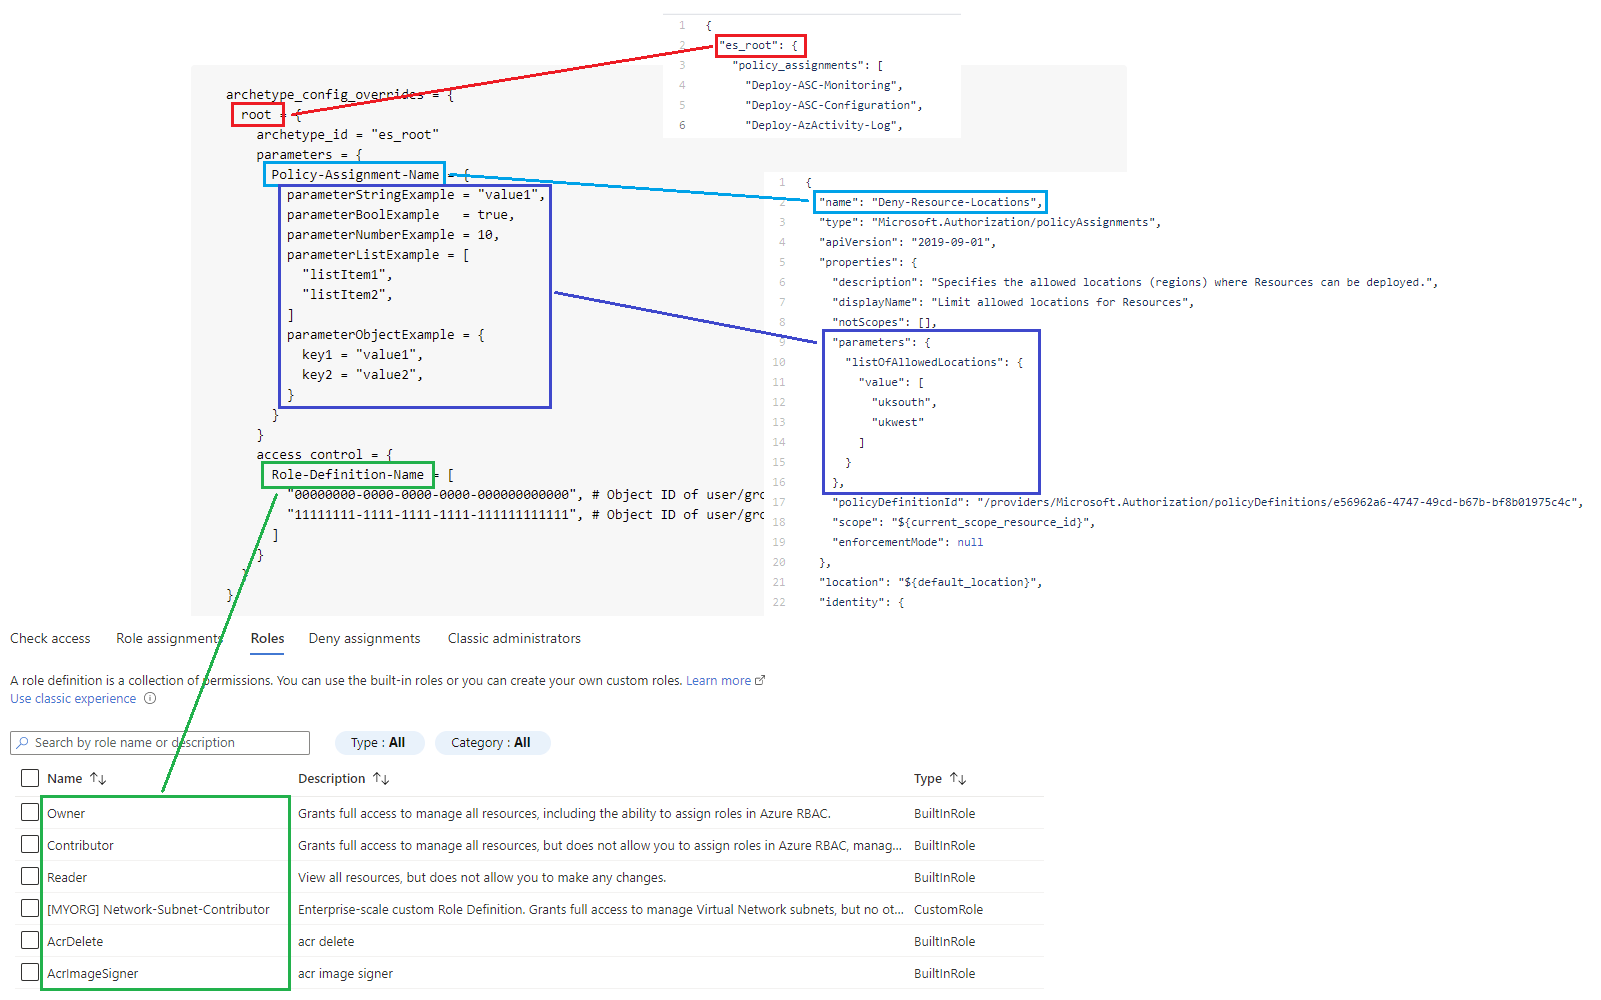
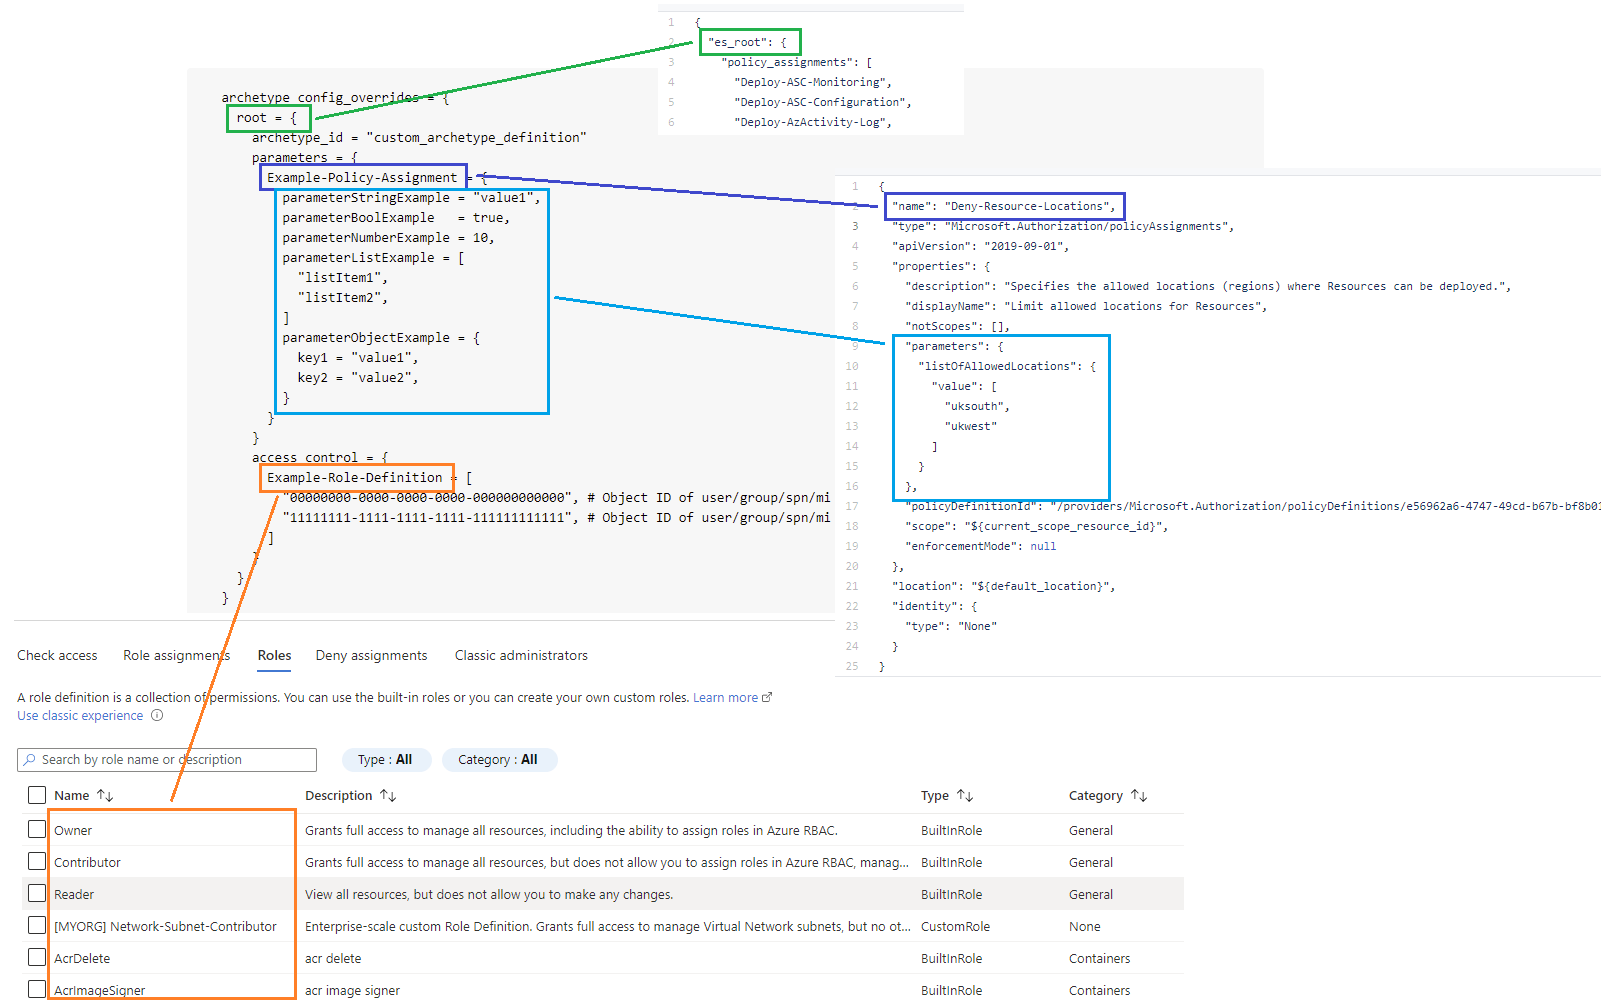
Update image and worded

diff --git a/docs/wiki/[Variables]-archetype_config_overrides.md b/docs/wiki/[Variables]-archetype_config_overrides.md
@@ -26,7 +26,7 @@ map(
 )
 ```
 
-> INFORMATION: The decision not to hard code the structure in the input variable `type` is by design, as it allows Terraform to handle the input as a dynamic type object.
+> INFORMATION: The decision not to hard code the structure in the input variable `type` is by design, as it allows Terraform to handle the input as a dynamic object type.
 This was necessary to allow the `parameters` value to be correctly interpreted.
 Without this, Terraform would throw an error if each parameter value wasn't a consistent type, as it would incorrectly identify the input as a `tuple` which must contain consistent type structure across all entries.
 
@@ -53,14 +53,14 @@ To do this, simply create an entry similar to the `root` example below for one o
 
 This variable can also be used to customize the [demo Management Groups](https://github.com/Azure/terraform-azurerm-caf-enterprise-scale/wiki/%5BVariables%5D-deploy_demo_landing_zones): `demo-corp`, `demo-online`, `demo-sap`
 
-The following code snippet shows the basic structure of a typical `archetype_config_overrides` object, setting an override for the `root` Management Group with examples of how to declare parameters with different value types:
+The `archetype_config_overrides` example below shows how to set an override for the `root` Management Group, setting the `archetype_id` to `custom_archetype_definition` showing example parameters with different value types for a Policy Assignment called `Example-Policy-Assignment`, and a Role Assignment adding two Object IDs to a Role Definition called `Example-Role-Definition`:
 
 ```hcl
   archetype_config_overrides = {
     root = {
-      archetype_id = "es_root"
+      archetype_id = "custom_archetype_definition"
       parameters = {
-        Policy-Assignment-Name = {
+        Example-Policy-Assignment = {
           parameterStringExample = "value1",
           parameterBoolExample   = true,
           parameterNumberExample = 10,
@@ -75,7 +75,7 @@ The following code snippet shows the basic structure of a typical `archetype_con
         }
       }
       access_control = {
-        Role-Definition-Name = [
+        Example-Role-Definition = [
           "00000000-0000-0000-0000-000000000000", # Object ID of user/group/spn/mi from Azure AD
           "11111111-1111-1111-1111-111111111111", # Object ID of user/group/spn/mi from Azure AD
         ]

diff --git a/docs/wiki/[User-Guide]-Archetype-Definitions.md b/docs/wiki/[User-Guide]-Archetype-Definitions.md
@@ -165,7 +165,7 @@ object({
 
 The `archetype_config` object must contain the following properties:
 
-- `archetype_id` specifies which `archetype_definition` (by `name`) to associate with the current scope.
+- `archetype_id` specifies which `archetype_definition` to associate with the current scope.
 This must reference a valid `archetype_definition` from the built-in or custom library.
 
 - `parameters` provides the option to set parameter values for any Policy Assignment(s) specified within the chosen archetype definition.
